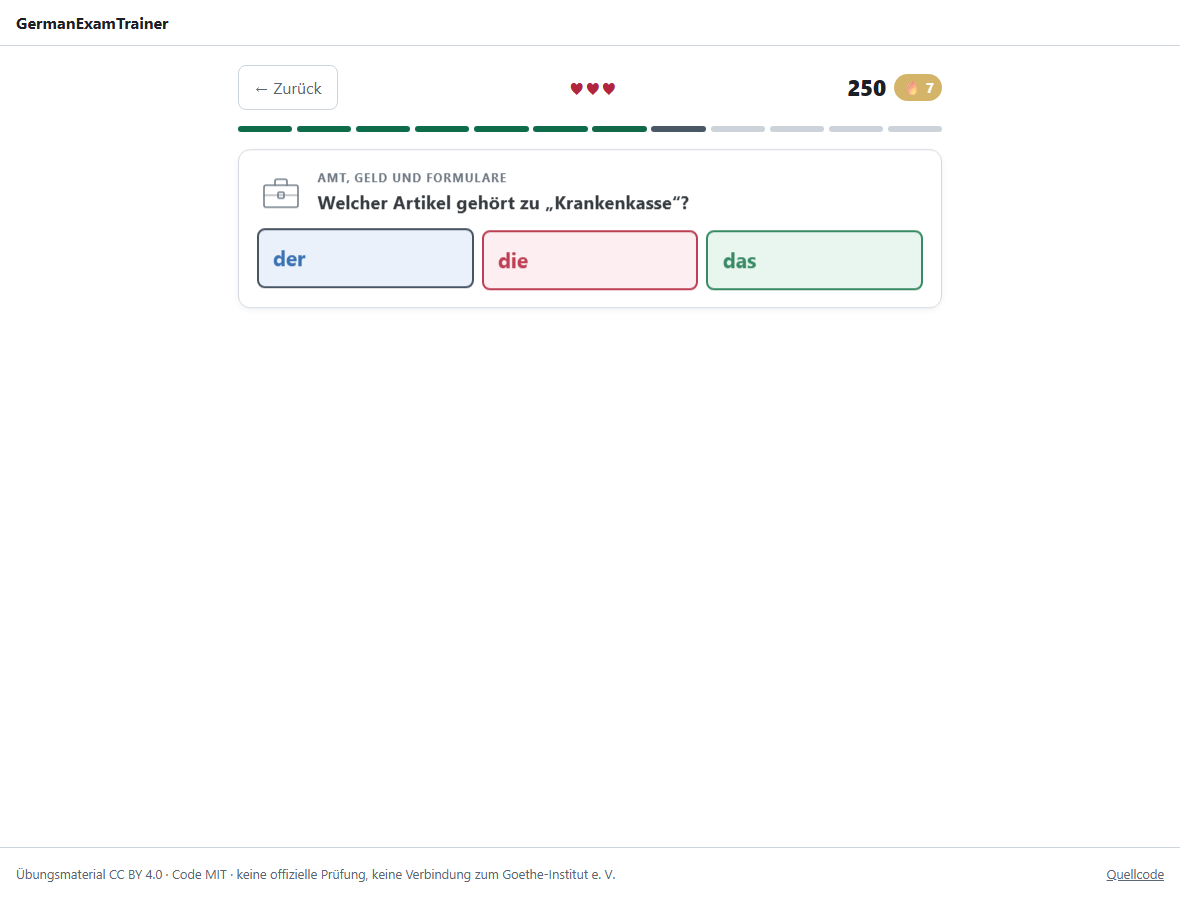
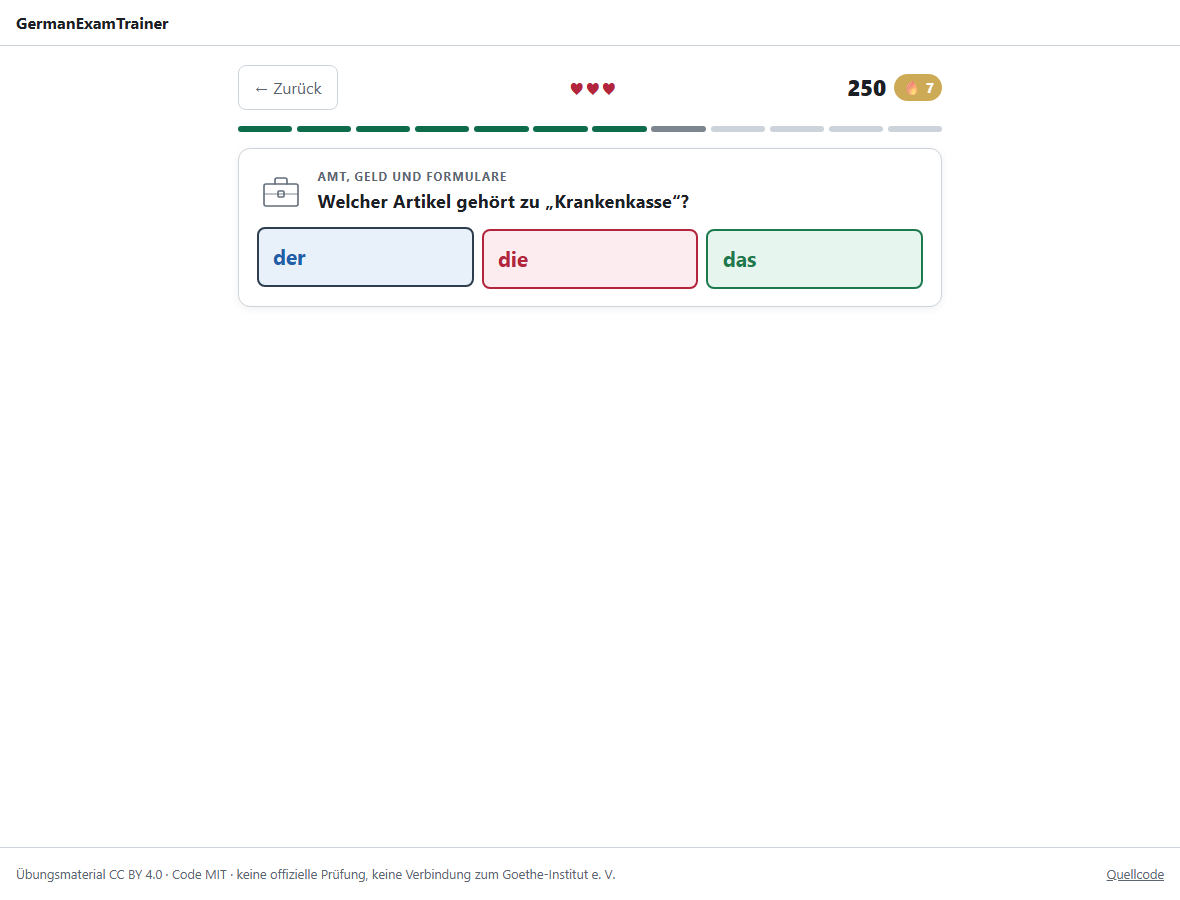
fix(spiel): give the explanation time to be read
A correct answer held the card for 900 ms. That is long enough to see the
tick and nowhere near long enough to read the reason underneath it — and
the reason is the part that does the teaching, so the game was throwing
away its own best feature roughly once a second.

Both pauses are two seconds longer: 2.9 s after a right answer, 4.6 s
after a wrong one. Measured on screen at 3.4 s and 5.0 s.

The end-to-end tests had hand-tuned sleeps between cards, which is why
they broke on this change. They now wait for the round to actually
advance, so the next timing change costs nothing, and the two tests that
play all twelve cards declare a budget that matches a round which now
deliberately takes about thirty-five seconds.

Changed region(s): [[0.2136, 0.1867, 0.7932, 0.3422], [0.5492, 0.1244, 0.6102, 0.1556]]

diff --git a/apps/web/e2e/spiel.spec.ts b/apps/web/e2e/spiel.spec.ts
@@ -65,6 +65,19 @@ async function rundeStarten(page: Page, stufe: Stufe, kategorie: Kategorie) {
   await page.locator('.karte-spiel').waitFor();
 }
 
+/**
+ * Wait for the card to turn over on its own.
+ *
+ * Never a fixed sleep: the pause between cards is a product decision that has
+ * already moved once, and a test that hard-codes it silently starts clicking
+ * into the previous card the moment it changes again.
+ */
+async function naechsteKarte(page: Page, fertig: number) {
+  await expect(page.locator('.pfad__halt--fertig')).toHaveCount(fertig, {
+    timeout: 15_000,
+  });
+}
+
 async function beantworten(page: Page, frage: Frage, richtig: boolean) {
   if (frage.art === 'bauen') {
     const woerter = richtig ? frage.loesung.split(' ') : [...frage.optionen].reverse();
@@ -211,15 +224,21 @@ test.describe('Sprachschatz', () => {
   });
 
   test('plays a whole round to the end', async ({ page }) => {
+    // Twelve cards at roughly three seconds of reading time each: the default
+    // per-test budget is not enough, and raising it here is honest about why.
+    test.setTimeout(120_000);
     const runde = rundeVorhersagen('B1', 'wortschatz');
     await rundeStarten(page, 'B1', 'wortschatz');
 
-    for (const frage of runde) {
+    for (const [i, frage] of runde.entries()) {
       await beantworten(page, frage, true);
-      await page.waitForTimeout(1000);
+      // The last card ends the round rather than advancing the path.
+      if (i < runde.length - 1) await naechsteKarte(page, i + 1);
     }
 
-    await expect(page.getByRole('heading', { name: 'Alles richtig!' })).toBeVisible();
+    await expect(page.getByRole('heading', { name: 'Alles richtig!' })).toBeVisible({
+      timeout: 15_000,
+    });
     await expect(page.getByRole('button', { name: 'Noch eine Runde' })).toBeVisible();
     // 10+20+30+40 then 50 for the rest: 100 + 8x50.
     await expect(page.locator('.bilanz dd').first()).toHaveText('500');
@@ -231,9 +250,12 @@ test.describe('Sprachschatz', () => {
 
     for (let i = 0; i < 3; i++) {
       await beantworten(page, runde[i]!, false);
-      await page.waitForTimeout(2800);
+      // A wrong answer still advances the path; the third one ends the round.
+      if (i < 2) await naechsteKarte(page, i + 1);
     }
-    await expect(page.getByRole('heading', { name: 'Runde vorbei' })).toBeVisible();
+    await expect(page.getByRole('heading', { name: 'Runde vorbei' })).toBeVisible({
+      timeout: 15_000,
+    });
   });
 
   test('keeps each level and area on its own scoreboard', async ({ page }) => {
@@ -255,13 +277,16 @@ test.describe('Sprachschatz', () => {
   });
 
   test('remembers a finished round after a reload', async ({ page }) => {
+    test.setTimeout(120_000);
     const runde = rundeVorhersagen('A2', 'grammatik');
     await rundeStarten(page, 'A2', 'grammatik');
-    for (const frage of runde) {
+    for (const [i, frage] of runde.entries()) {
       await beantworten(page, frage, true);
-      await page.waitForTimeout(1000);
+      if (i < runde.length - 1) await naechsteKarte(page, i + 1);
     }
-    await expect(page.getByRole('heading', { name: 'Alles richtig!' })).toBeVisible();
+    await expect(page.getByRole('heading', { name: 'Alles richtig!' })).toBeVisible({
+      timeout: 15_000,
+    });
 
     await page.reload();
     await page.getByRole('tab', { name: 'A2' }).click();

diff --git a/apps/web/e2e/screenshots.spec.ts b/apps/web/e2e/screenshots.spec.ts
@@ -1,4 +1,4 @@
-import { test } from '@playwright/test';
+import { expect, test } from '@playwright/test';
 import { readFileSync } from 'node:fs';
 import { fileURLToPath, URL } from 'node:url';
 import { alleFragen, leererFortschritt, rundeBauen } from '@pruefung/core';
@@ -90,6 +90,8 @@ test('Spickzettel-Screenshots erzeugen', async ({ page }) => {
 });
 
 test('Spiel-Screenshots erzeugen', async ({ page }) => {
+  // Plays several cards to reach an article one, at reading speed.
+  test.setTimeout(120_000);
   // Pinned seed, so the card in the README is the same card every time and a
   // rebuild does not produce a diff for no reason.
   await page.goto('/?saat=20260820');
@@ -116,6 +118,7 @@ test('Spiel-Screenshots erzeugen', async ({ page }) => {
 
   await page.getByRole('button', { name: /Wortschatz/ }).click();
   await page.locator('.karte-spiel').waitFor();
+  let erledigt = 0;
   for (const frage of runde) {
     if (frage.art === 'artikel') break;
     await page
@@ -123,7 +126,12 @@ test('Spiel-Screenshots erzeugen', async ({ page }) => {
       .filter({ hasText: new RegExp(`^${frage.loesung}$`) })
       .first()
       .click();
-    await page.waitForTimeout(1100);
+    // Wait for the card to turn over rather than for a fixed number of
+    // milliseconds, which would need retuning whenever the pause changes.
+    erledigt += 1;
+    await expect(page.locator('.pfad__halt--fertig')).toHaveCount(erledigt, {
+      timeout: 15_000,
+    });
   }
   await page.evaluate(() => window.scrollTo(0, 0));
   await page.screenshot({ path: `${OUT}10-spiel-artikel.png`, fullPage: false });

diff --git a/apps/web/src/screens/Spiel.tsx b/apps/web/src/screens/Spiel.tsx
@@ -41,9 +41,16 @@ interface Props {
 
 type Phase = 'wahl' | 'spiel' | 'ende';
 
-/** How long the answer stays on screen before the next card, in ms. */
-const PAUSE_RICHTIG = 900;
-const PAUSE_FALSCH = 2600;
+/**
+ * How long the answer stays on screen before the next card, in ms.
+ *
+ * The first version gave a correct answer 900 ms, which is long enough to see
+ * that you were right and nowhere near long enough to read *why* — so the
+ * explanation, which is the part that does the teaching, was gone before it
+ * could be read. Both pauses are two seconds longer than that.
+ */
+const PAUSE_RICHTIG = 2900;
+const PAUSE_FALSCH = 4600;
 
 /**
  * The seed for the next round. `?saat=123` pins it, so a round can be replayed

diff --git a/CHANGELOG.md b/CHANGELOG.md
@@ -7,6 +7,21 @@ Notable changes to this project. Format based on
 Exam content is versioned separately, per paper, in each `exam.json`
 (`meta.contentVersion`).
 
+## [1.7.1] — 2026-08-20
+
+### Fixed
+
+- **The explanation was gone before it could be read.** A correct answer held
+  the card for 900 ms — long enough to see the tick, nowhere near long enough
+  to read the reason underneath it, which is the part that does the teaching.
+  Both pauses are two seconds longer: **2.9 s** after a right answer and
+  **4.6 s** after a wrong one, measured on screen at 3.4 s and 5.0 s.
+- The end-to-end tests waited a hand-tuned number of milliseconds between
+  cards, so they had to be retuned for the new pauses and would have needed it
+  again on the next change. They now wait for the round to advance instead, and
+  the two tests that play all twelve cards say out loud that a whole round
+  takes longer than the default per-test budget.
+
 ## [1.7.0] — 2026-08-20
 
 ### Added
